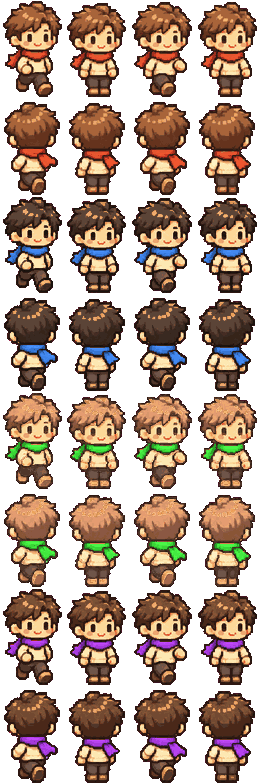
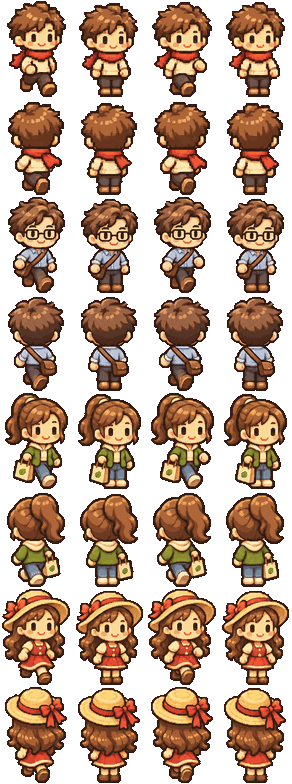
V1.5.7: four distinct resident characters
Claude-Session: https://claude.ai/code/session_015QKtV6QCjq7yLMBq9Ro5tS

diff --git a/site/index.html b/site/index.html
@@ -75,7 +75,7 @@ footer{font-size:11px;color:#9db5b4;line-height:1.6;margin:0 2px}
 <body>
 <header>
   <div>
-    <strong>✦ INDESIGHT TOWN <span>V1.5.6 原型</span></strong>
+    <strong>✦ INDESIGHT TOWN <span>V1.5.7 原型</span></strong>
     <small>Cozy Modern Pixel Town · 工作成就養成小鎮</small>
   </div>
   <div class="pill" id="topstat">LV 1 · 0 XP</div>
@@ -128,7 +128,7 @@ footer{font-size:11px;color:#9db5b4;line-height:1.6;margin:0 2px}
         <button id="reset" class="danger">↻ 重設進度</button>
       </div>
     </section>
-    <footer>V1.5.6 原型：等距格子地圖，建築、樹木、街道小物與居民已換成正式美術，地面由程式繪製。尚未串接 Notion。進度保存在本機瀏覽器，沿用 V1.4 的存檔。</footer>
+    <footer>V1.5.7 原型：等距格子地圖，建築、樹木、街道小物與居民已換成正式美術，地面由程式繪製。尚未串接 Notion。進度保存在本機瀏覽器，沿用 V1.4 的存檔。</footer>
   </aside>
 </main>
 
@@ -383,7 +383,7 @@ const ART_FILES = {
 const treeArt = v => ART['tree:' + (v === 3 ? 0 : v)];
 /* 居民動作表：每種配色 2 列（正面、背面）× 4 格走路動作 */
 let PEOPLE = null;
-const PEOPLE_SHEET = {src:'assets/people.png', cw:65, ch:98, variants:4, s:.25};
+const PEOPLE_SHEET = {src:'assets/people.png', cw:73, ch:98, variants:4, s:.25};
 function loadPeople(){
   const P = PEOPLE_SHEET, im = new Image();
   im.onload = () => {

diff --git a/tools/people.py b/tools/people.py
@@ -1,67 +1,56 @@
-import sys, colorsys
+"""把多張角色動作表（洋紅背景、2 列 x 4 格）合成遊戲用的 people.png。
+用法：python3 tools/people.py 輸出.png 角色1.png 角色2.png ...
+每個角色輸出 2 列：第 1 列正面往右下走，第 2 列背面往左上走，各 4 格。
+"""
+import sys
 import numpy as np
 from PIL import Image
 from scipy import ndimage
-src,out=sys.argv[1],sys.argv[2]
-TH=96  # target figure height in px (world = TH*0.25)
-a=np.asarray(Image.open(src).convert('RGB')).astype(np.int32)
-r,g,b=a[...,0],a[...,1],a[...,2]
-m=np.minimum(r,b)-g
-alpha=np.clip((150-m)/90.0,0,1)
-fr=alpha<1; lim=g+40
-rgb=a.copy()
-rgb[...,0]=np.where(fr,np.minimum(r,np.maximum(lim,r*alpha)),r)
-rgb[...,2]=np.where(fr,np.minimum(b,np.maximum(lim,b*alpha)),b)
-lab,n=ndimage.label(alpha>0.4)
-objs=ndimage.find_objects(lab)
-comps=[(s, (lab[s]>0).sum()) for s in objs]
-comps=[c for c in comps if c[1]>3000]
-comps.sort(key=lambda c:(round(c[0][0].start/300), c[0][1].start))
-print('components',len(comps),[ (c[0][0].start,c[0][1].start) for c in comps])
-assert len(comps)==8
-hmax=max(c[0][0].stop-c[0][0].start for c in comps)
-k=TH/hmax
-frames=[]
-for (sl,_) in comps:
-    ys,xs=sl
-    crop=np.dstack([rgb[sl],(alpha[sl]*255)]).astype(np.uint8)
-    im=Image.fromarray(crop,'RGBA')
-    # horizontal anchor: centre of the head (top 40%)
-    al=alpha[sl]; top=al[:int(al.shape[0]*.4)]
-    cx=np.nonzero(top.sum(0)>0.5)[0]; hc=(cx.min()+cx.max())/2
-    w=max(1,round(im.width*k)); h=max(1,round(im.height*k))
-    im=im.resize((w,h),Image.LANCZOS)
-    frames.append((im,hc*k))
-CW=max(max(f[1],f[0].width-f[1]) for f in frames)*2+4; CW=int(np.ceil(CW)); CH=TH+2
-def recolor(img, scarf_h=None, hair=None):
-    px=np.asarray(img).astype(np.float32)/255.
-    H,W=px.shape[:2]; o=px.copy()
-    hsv=np.zeros((H,W,3))
-    for y in range(H):
-        for x in range(W):
-            hsv[y,x]=colorsys.rgb_to_hsv(*px[y,x,:3])
-    h,s,v=hsv[...,0],hsv[...,1],hsv[...,2]; A=px[...,3]>.5
-    if scarf_h is not None:
-        red=A&((h<.05)|(h>.93))&(s>.5)&(v>.3)
-        lab,n=ndimage.label(red,structure=np.ones((3,3)))
-        sizes=ndimage.sum(red,lab,range(1,n+1))
-        keep=np.isin(lab,[i+1 for i,sz in enumerate(sizes) if sz>=25])
-        for y,x in zip(*np.nonzero(keep)):
-            o[y,x,:3]=colorsys.hsv_to_rgb(scarf_h,s[y,x]*.9,v[y,x])
-    if hair:
-        f,ds=hair
-        hm=A&(h>=.04)&(h<=.12)&(s>.45)&(v<.8)
-        for y,x in zip(*np.nonzero(hm)):
-            o[y,x,:3]=colorsys.hsv_to_rgb(h[y,x],min(1,s[y,x]*ds),min(1,v[y,x]*f))
-    return Image.fromarray((np.clip(o,0,1)*255).astype(np.uint8),'RGBA')
-variants=[(None,None),(.60,(.55,.6)),(.33,(1.35,.75)),(.78,(.75,.9))]
-sheet=Image.new('RGBA',(CW*4,CH*2*len(variants)),(0,0,0,0))
-for vi,(sh,hair) in enumerate(variants):
-    for i,(im,hc) in enumerate(frames):
-        im2=recolor(im,sh,hair) if (sh is not None or hair) else im
-        row=vi*2+i//4; col=i%4
-        sheet.alpha_composite(im2,(int(col*CW+CW/2-hc), row*CH+CH-1-im2.height))
-al=sheet.getchannel('A').point(lambda v:255 if v>110 else 0)
-sheet.putalpha(al)
-sheet.quantize(colors=96,method=Image.FASTOCTREE,dither=Image.NONE).save(out,optimize=True)
-print('cell',CW,CH,'sheet',sheet.size)
+
+TH = 96  # 角色高度（px），遊戲內縮 0.25 倍
+
+def frames_of(src):
+    a = np.asarray(Image.open(src).convert('RGB')).astype(np.int32)
+    r, g, b = a[..., 0], a[..., 1], a[..., 2]
+    alpha = np.clip((150 - (np.minimum(r, b) - g)) / 90.0, 0, 1)
+    fr = alpha < 1; lim = g + 40
+    rgb = a.copy()
+    rgb[..., 0] = np.where(fr, np.minimum(r, np.maximum(lim, r * alpha)), r)
+    rgb[..., 2] = np.where(fr, np.minimum(b, np.maximum(lim, b * alpha)), b)
+    # 每格角色可能被拆成幾塊（例如手提的袋子），先膨脹再找連通區塊
+    lab, n = ndimage.label(ndimage.binary_dilation(alpha > 0.4, iterations=12))
+    comps = [s for s in ndimage.find_objects(lab) if (s[0].stop - s[0].start) > 150]
+    comps.sort(key=lambda s: (round(s[0].start / 300), s[1].start))
+    if len(comps) != 8:
+        raise SystemExit(f'{src}: 找到 {len(comps)} 個角色，預期 8 個')
+    # 去掉膨脹的邊
+    tight = []
+    for s in comps:
+        m = alpha[s] > 0.4
+        ys, xs = np.nonzero(m)
+        tight.append((slice(s[0].start + ys.min(), s[0].start + ys.max() + 1),
+                      slice(s[1].start + xs.min(), s[1].start + xs.max() + 1)))
+    k = TH / max(s[0].stop - s[0].start for s in tight)
+    out = []
+    for sl in tight:
+        crop = np.dstack([rgb[sl], alpha[sl] * 255]).astype(np.uint8)
+        im = Image.fromarray(crop, 'RGBA')
+        top = alpha[sl][:int(alpha[sl].shape[0] * .4)]
+        cx = np.nonzero(top.sum(0) > 0.5)[0]
+        hc = (cx.min() + cx.max()) / 2  # 以頭部中心對齊，走路時身體不會左右跳
+        im = im.resize((max(1, round(im.width * k)), max(1, round(im.height * k))), Image.LANCZOS)
+        out.append((im, hc * k))
+    return out
+
+dst, srcs = sys.argv[1], sys.argv[2:]
+chars = [frames_of(s) for s in srcs]
+CW = int(np.ceil(max(max(hc, im.width - hc) for ch in chars for im, hc in ch) * 2 + 4))
+CH = TH + 2
+sheet = Image.new('RGBA', (CW * 4, CH * 2 * len(chars)), (0, 0, 0, 0))
+for ci, ch in enumerate(chars):
+    for i, (im, hc) in enumerate(ch):
+        row = ci * 2 + i // 4
+        sheet.alpha_composite(im, (int((i % 4) * CW + CW / 2 - hc), row * CH + CH - 1 - im.height))
+sheet.putalpha(sheet.getchannel('A').point(lambda v: 255 if v > 110 else 0))
+sheet.quantize(colors=128, method=Image.FASTOCTREE, dither=Image.NONE).save(dst, optimize=True)
+print(f'cell {CW} {CH}  characters {len(chars)}  sheet {sheet.size}')
